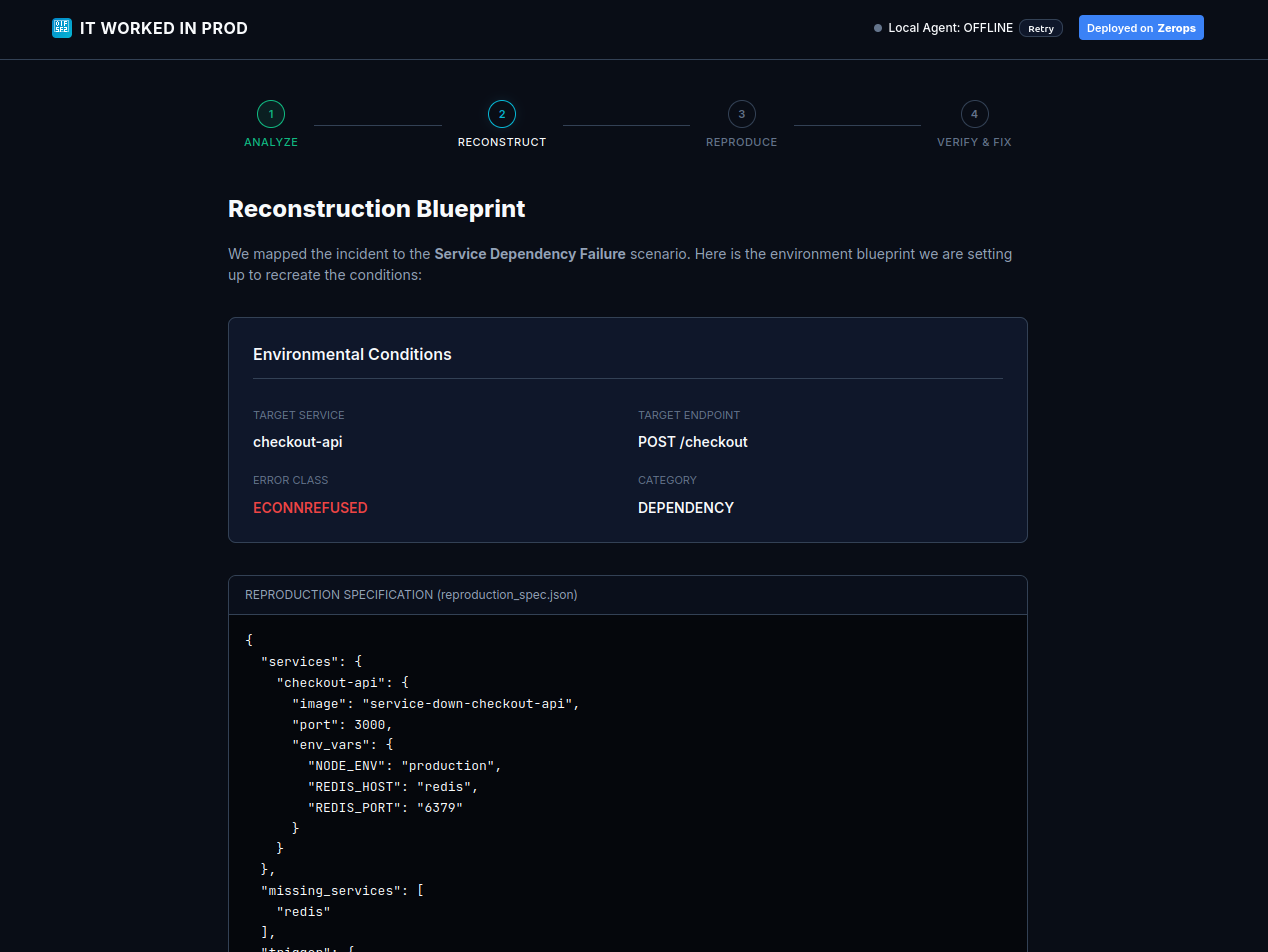
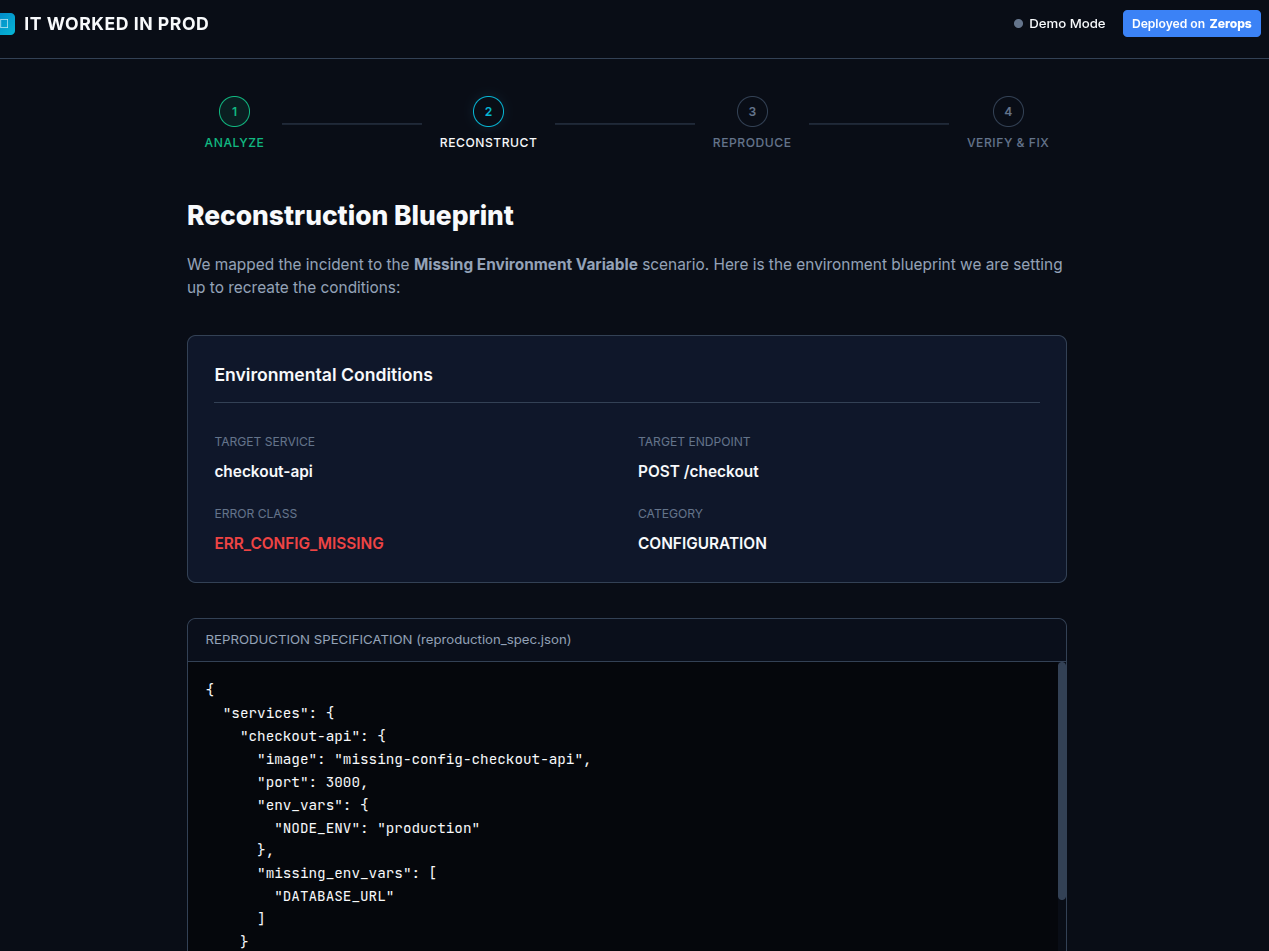
Added the demo video and made the final changes before submission

diff --git a/README.md b/README.md
@@ -2,7 +2,7 @@
 
 > **Reproduce production bugs locally with one click.**
 
-[🚀 Live Demo](https://app-2c53-3001.prg1.zerops.app/) · [💻 Source Code](https://github.com/Darshith-845/ItWorkedInProd) · [🎥 Demo Video](YOUR_VIDEO_URL)
+[🚀 Live Demo](https://app-2c53-3001.prg1.zerops.app/) · [💻 Source Code](https://github.com/Darshith-845/ItWorkedInProd) · [🎥 Demo Video](https://youtu.be/qY2tWO_cmZ8)
 
 **IT WORKED IN PROD** turns a production failure into a reproducible local incident.
 
